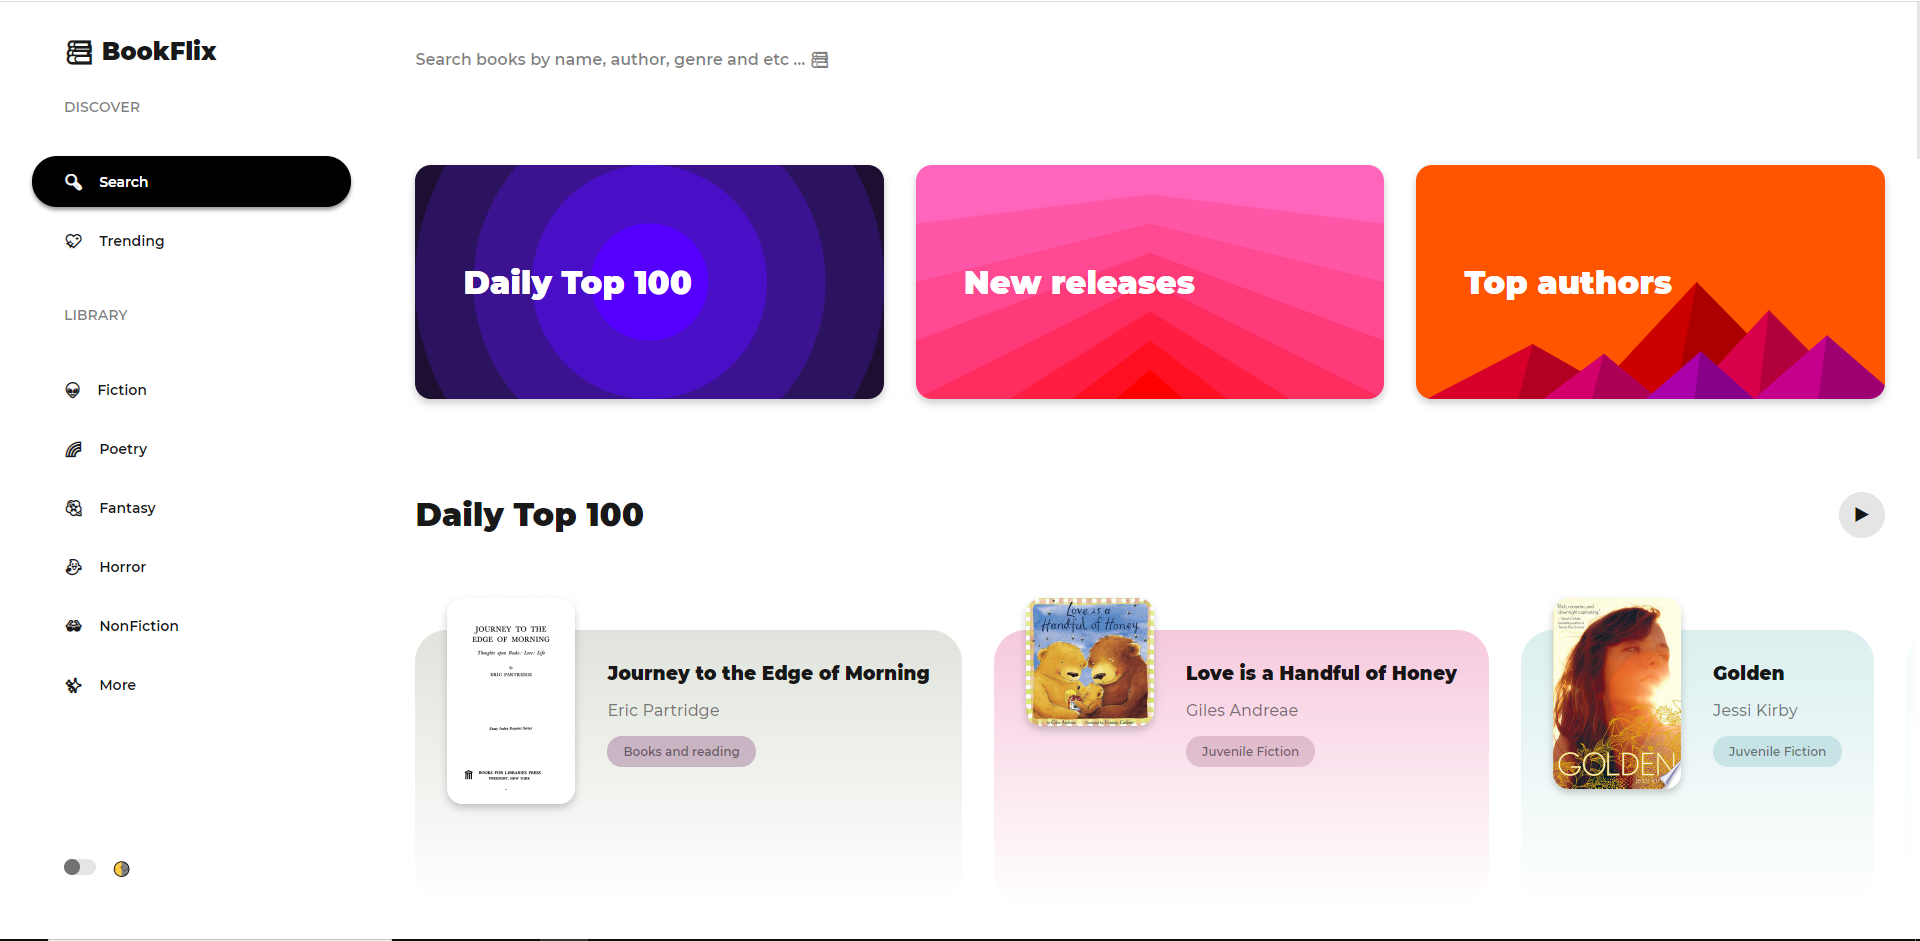
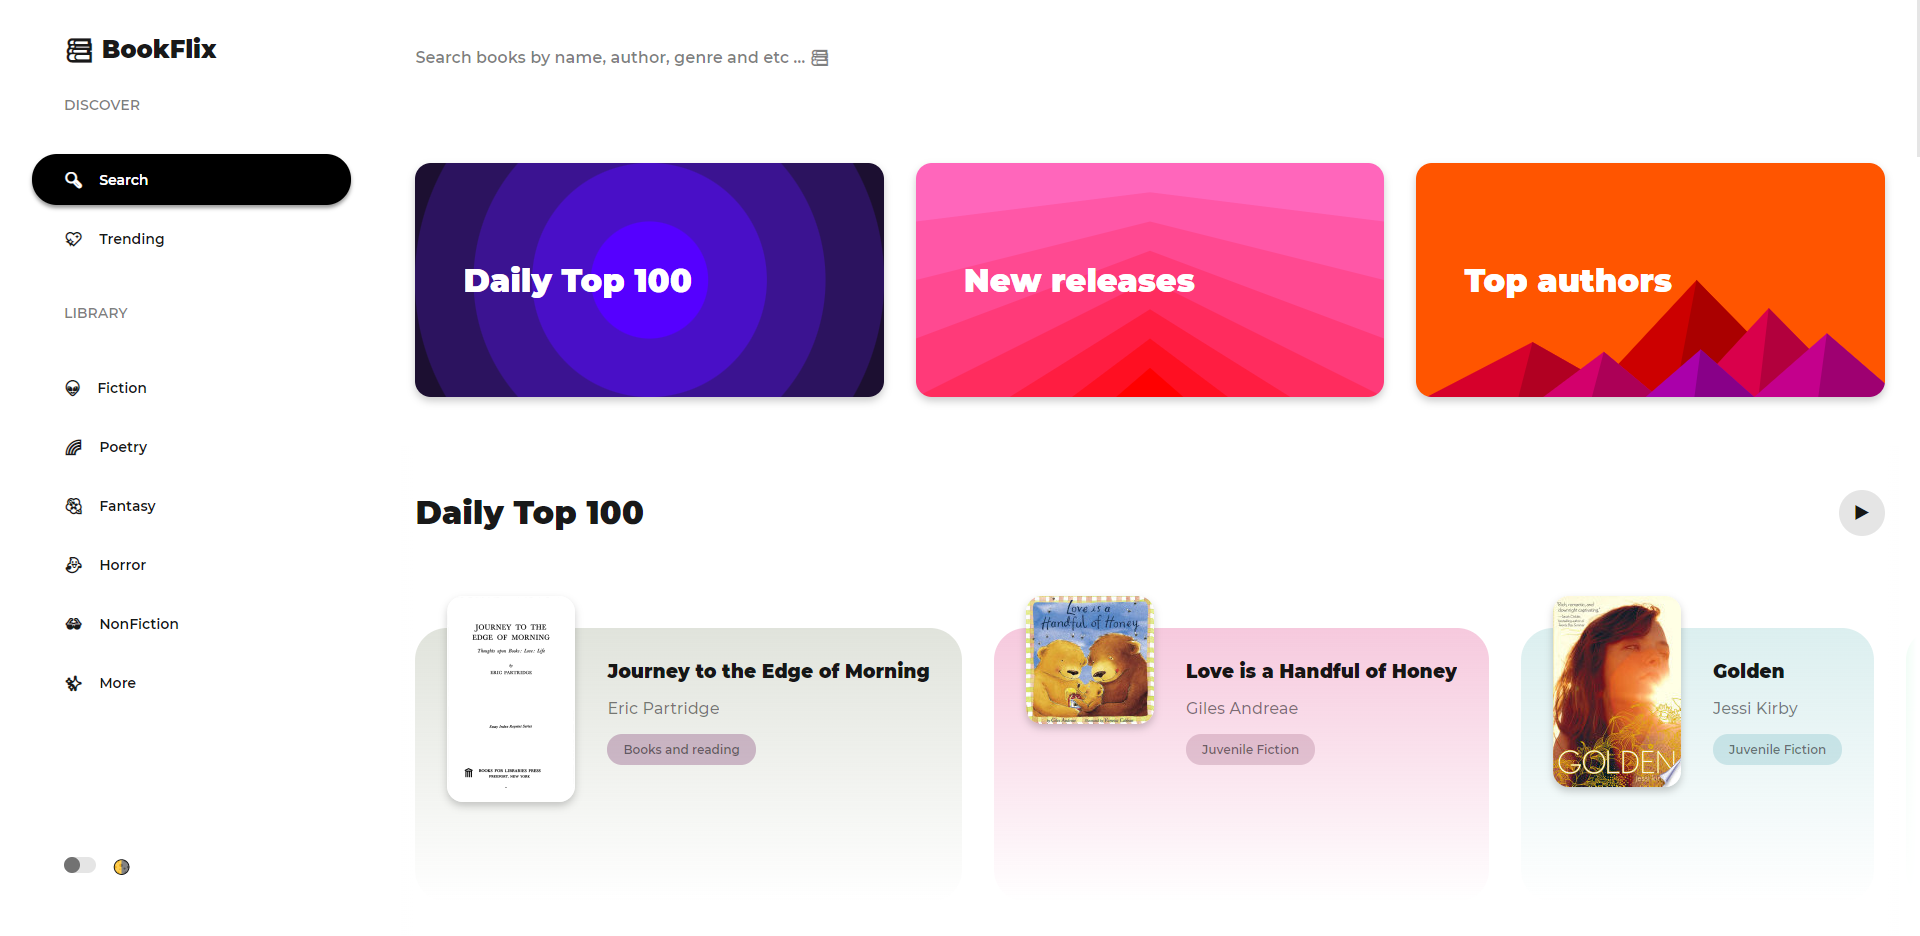
Cropped the images

diff --git a/README.md b/README.md
@@ -3,12 +3,8 @@
 
  <h1>Bookflix - A place to manage, explore and review books all from your browser.</h1>
 
-<div allign="center">
-  <br>
-  <img src="icons/Showcase.png" width="100%">
-  <img src="icons/Showcase2.png" width="100%">
-  <br>
-</div>
+<img src="icons/Showcase.PNG">
+<img src="icons/Showcase2.PNG">
 
 <p allign="center">
 
